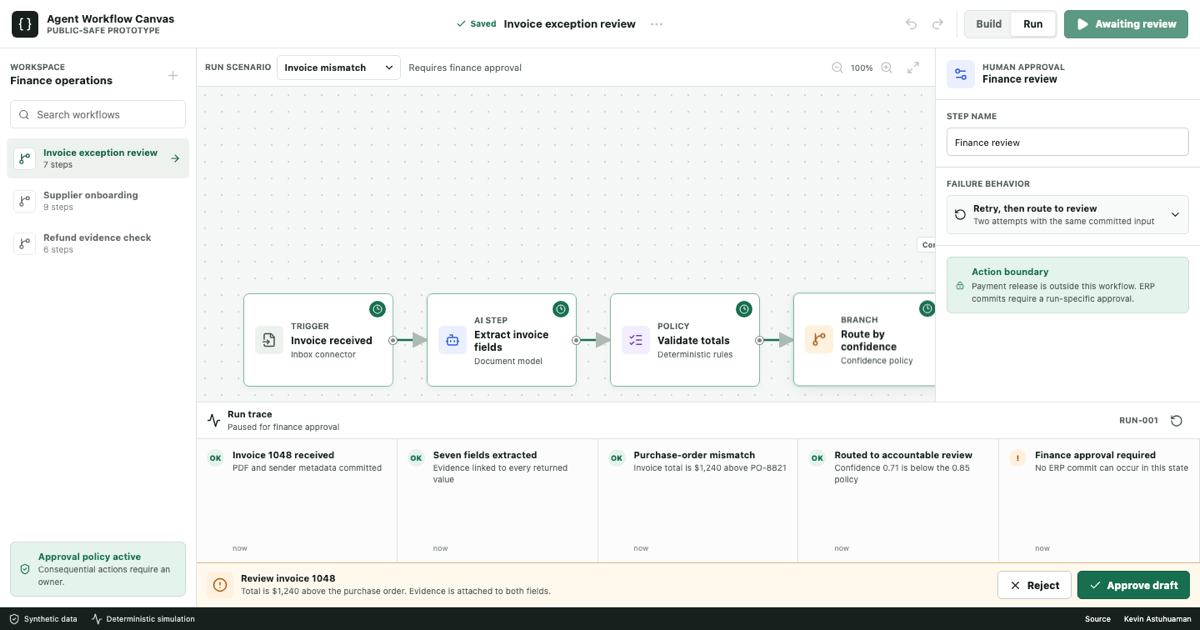
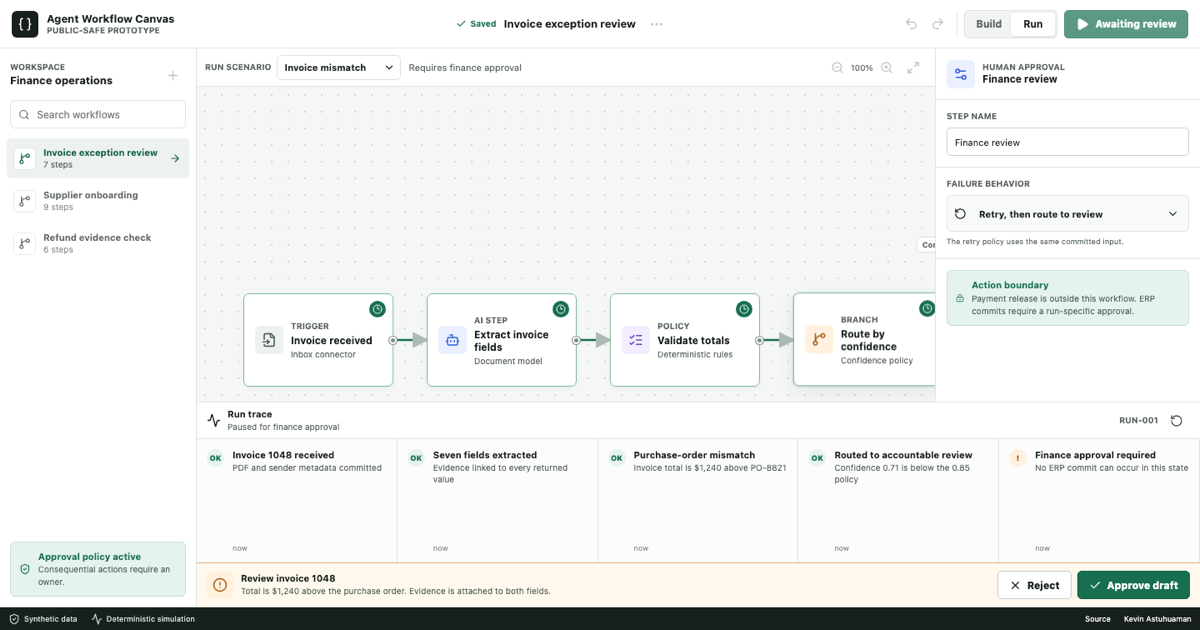
Resolve workflow canvas review findings

Changed region(s): [[0.7708, 0.3016, 1.0, 0.5429]]

diff --git a/tests/workflow.spec.ts b/tests/workflow.spec.ts
@@ -1,5 +1,13 @@
 import AxeBuilder from "@axe-core/playwright";
-import { expect, test } from "@playwright/test";
+import { expect, test, type Page } from "@playwright/test";
+
+const MOBILE_BREAKPOINT = 820;
+
+async function openInspectorIfMobile(page: Page) {
+  if ((page.viewportSize()?.width ?? 0) <= MOBILE_BREAKPOINT) {
+    await page.getByRole("button", { name: "Inspector" }).click();
+  }
+}
 
 test("renders an accessible work surface without viewport overflow", async ({ page }, testInfo) => {
   await page.goto("./");
@@ -8,6 +16,16 @@ test("renders an accessible work surface without viewport overflow", async ({ pa
   expect(accessibility.violations).toEqual([]);
   const overflow = await page.evaluate(() => document.documentElement.scrollWidth > document.documentElement.clientWidth);
   expect(overflow, `${testInfo.project.name} body should not overflow`).toBe(false);
+});
+
+test("short desktop viewports keep the run and status areas visible", async ({ page }, testInfo) => {
+  test.skip(testInfo.project.name === "mobile", "Desktop height regression only");
+  await page.setViewportSize({ width: 1024, height: 550 });
+  await page.goto("./");
+  await expect(page.getByText("Run trace", { exact: true })).toBeVisible();
+  await expect(page.getByText("Synthetic data")).toBeVisible();
+  const statusBottom = await page.locator(".statusbar").evaluate((element) => element.getBoundingClientRect().bottom);
+  expect(statusBottom).toBeLessThanOrEqual(550);
 });
 
 test("invoice mismatch pauses for review and completes only after approval", async ({ page }) => {
@@ -30,9 +48,7 @@ test("clean invoice takes the automatic branch", async ({ page }) => {
   await expect(page.getByText("Draft synced and owner notified")).toBeVisible();
   await expect(page.getByText("Review invoice 1048")).toBeHidden();
   await page.getByRole("button", { name: /Seven fields extracted/ }).click();
-  if ((page.viewportSize()?.width ?? 0) <= 820) {
-    await page.getByRole("button", { name: "Inspector" }).click();
-  }
+  await openInspectorIfMobile(page);
   await expect(page.locator("[data-inspector-title]")).toHaveText("Extract invoice fields");
 });
 
@@ -50,11 +66,14 @@ test("permission failure is explicit and recoverable", async ({ page }) => {
 test("route policy can be inspected and changed", async ({ page }) => {
   await page.goto("./");
   await page.getByRole("button", { name: /Route by confidence/ }).click();
-  if ((page.viewportSize()?.width ?? 0) <= 820) {
-    await page.getByRole("button", { name: "Inspector" }).click();
-  }
+  await openInspectorIfMobile(page);
   const threshold = page.getByLabel("Review threshold");
   await expect(threshold).toBeVisible();
+  await expect(threshold).toHaveAttribute("min", "75");
+  expect(await page.locator(".range-labels span").allTextContents()).toEqual(["More automation", "More review"]);
+  await page.getByRole("button", { name: "Run workflow" }).click();
+  await expect(page.locator("[data-run-id]")).toHaveText("RUN-001");
+  await openInspectorIfMobile(page);
   await threshold.fill("92");
   await expect(page.locator("[data-threshold-value]")).toHaveText("0.92");
   await expect(page.locator("[data-run-id]")).toHaveText("Not started");
@@ -62,9 +81,17 @@ test("route policy can be inspected and changed", async ({ page }) => {
   await expect(page.getByText("Confidence 0.71 is below the 0.92 policy")).toBeVisible();
 });
 
+test("instruction edits update the character budget", async ({ page }) => {
+  await page.goto("./");
+  await openInspectorIfMobile(page);
+  await page.getByLabel("Instruction").fill("Return typed evidence.");
+  await expect(page.locator("[data-instruction-count]")).toHaveText("22 / 500");
+  await expect(page.locator("[data-run-id]")).toHaveText("Not started");
+});
+
 test("workflow library search filters public examples", async ({ page }) => {
   await page.goto("./");
-  if ((page.viewportSize()?.width ?? 0) <= 820) test.skip();
+  if ((page.viewportSize()?.width ?? 0) <= MOBILE_BREAKPOINT) test.skip();
   await page.getByPlaceholder("Search workflows").fill("refund");
   await expect(page.getByRole("button", { name: /Refund evidence check/ })).toBeVisible();
   await expect(page.getByRole("button", { name: /Invoice exception review/ })).toBeHidden();

diff --git a/tests/pages.spec.ts b/tests/pages.spec.ts
@@ -1,0 +1,18 @@
+import { expect, test } from "@playwright/test";
+
+test("production artifact works at the GitHub Pages base path", async ({ page, request }) => {
+  const failedAssets: string[] = [];
+  page.on("response", (response) => {
+    if (response.status() >= 400) failedAssets.push(`${response.status()} ${response.url()}`);
+  });
+
+  await page.goto("./");
+  await expect(page.getByRole("heading", { name: "Agent Workflow Canvas" })).toBeAttached();
+  await expect(page.getByRole("button", { name: "Run workflow" })).toBeVisible();
+  expect(failedAssets).toEqual([]);
+
+  for (const path of ["llms.txt", "project.json", "sitemap.xml", "robots.txt", "social-preview.png"]) {
+    const response = await request.get(`./${path}`);
+    expect(response.ok(), `${path} should resolve below the deployed base path`).toBeTruthy();
+  }
+});

diff --git a/playwright.config.ts b/playwright.config.ts
@@ -2,6 +2,7 @@ import { defineConfig, devices } from "@playwright/test";
 
 export default defineConfig({
   testDir: "./tests",
+  testIgnore: "pages.spec.ts",
   fullyParallel: true,
   retries: 0,
   reporter: "line",
@@ -10,9 +11,10 @@ export default defineConfig({
     trace: "retain-on-failure",
   },
   webServer: {
-    command: "TEST_BASE=root npx astro build && npx http-server dist -a 127.0.0.1 -p 4325 -c-1",
+    command: "cross-env TEST_BASE=root npx astro build && http-server dist -a 127.0.0.1 -p 4325 -c-1",
     url: "http://127.0.0.1:4325/",
     reuseExistingServer: false,
+    timeout: 180_000,
   },
   projects: [
     { name: "desktop", use: { ...devices["Desktop Chrome"], viewport: { width: 1440, height: 1000 } } },

diff --git a/src/styles/global.css b/src/styles/global.css
@@ -1,5 +1,6 @@
 :root {
   color-scheme: light;
+
   --ink: #17201d;
   --muted: #59645e;
   --line: #dce3df;
@@ -71,6 +72,7 @@ a:focus-visible {
   margin: -1px;
   overflow: hidden;
   clip: rect(0, 0, 0, 0);
+  clip-path: inset(50%);
   white-space: nowrap;
   border: 0;
 }
@@ -80,7 +82,6 @@ a:focus-visible {
   grid-template-rows: 58px minmax(0, 1fr) 28px;
   width: 100%;
   height: 100dvh;
-  min-height: 660px;
   overflow: hidden;
 }
 
@@ -272,7 +273,7 @@ a:focus-visible {
 .run-button svg {
   width: 16px;
   height: 16px;
-  fill: currentColor;
+  fill: currentcolor;
 }
 
 .mobile-tabs {

diff --git a/playwright.pages.config.ts b/playwright.pages.config.ts
@@ -1,0 +1,17 @@
+import { defineConfig, devices } from "@playwright/test";
+
+export default defineConfig({
+  testDir: "./tests",
+  testMatch: "pages.spec.ts",
+  reporter: "line",
+  use: {
+    baseURL: "http://127.0.0.1:4326/agent-workflow-canvas/",
+    ...devices["Desktop Chrome"],
+  },
+  webServer: {
+    command: "cross-env TEST_PAGES=1 npx astro build && http-server .pages-preview -a 127.0.0.1 -p 4326 -c-1",
+    url: "http://127.0.0.1:4326/agent-workflow-canvas/",
+    reuseExistingServer: false,
+    timeout: 180_000,
+  },
+});

diff --git a/README.md b/README.md
@@ -42,6 +42,7 @@ This is an original, public-safe prototype. It contains synthetic invoice data a
 
 ```bash
 npm install
+npx playwright install --with-deps chromium
 npm test
 npm run dev
 ```
